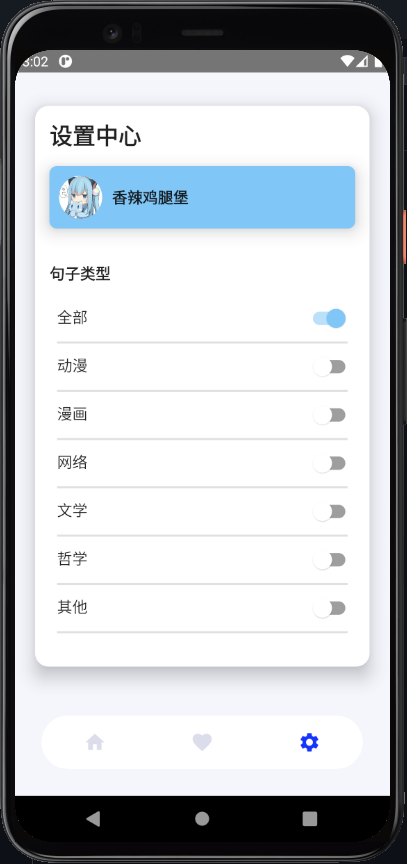
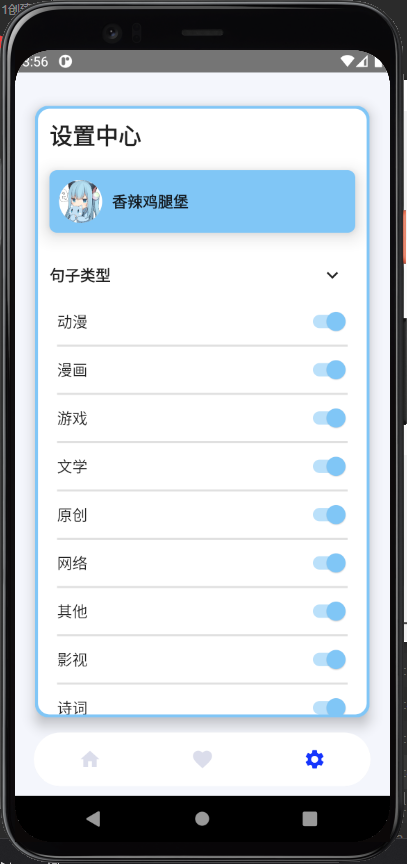
Redesign Ui

diff --git a/app/src/main/java/com/compose/onetextbuilder/Setting.kt b/app/src/main/java/com/compose/onetextbuilder/Setting.kt
@@ -46,14 +46,14 @@ import androidx.compose.foundation.selection.selectable
 import androidx.compose.material.BottomAppBar
 import androidx.compose.material.Icon
 import androidx.compose.material.IconButton
-import androidx.compose.material.icons.filled.Favorite
-import androidx.compose.material.icons.filled.Home
-import androidx.compose.material.icons.filled.Menu
-import androidx.compose.material.icons.filled.Settings
+import androidx.compose.material.icons.filled.*
+import androidx.compose.ui.Alignment.Companion.CenterVertically
+import androidx.compose.ui.graphics.graphicsLayer
 import androidx.compose.ui.res.painterResource
 import androidx.navigation.NavHostController
 
 
+@ExperimentalAnimationApi
 @Composable
 fun Setting(viewModel:UiState, navController: NavHostController) {
     Column(
@@ -67,9 +67,10 @@ fun Setting(viewModel:UiState, navController: NavHostController) {
             shape = RoundedCornerShape(14.dp),
             modifier = Modifier
                 .width(350.dp)
-                .wrapContentHeight(),
+                .height(640.dp),
             color = Color.White,
-            elevation = 14.dp
+            elevation = 10.dp,
+            border = BorderStroke(3.dp, Color(0xFF80C6F6))
         ){
             LazyColumn() {
                 item{
@@ -77,8 +78,11 @@ fun Setting(viewModel:UiState, navController: NavHostController) {
                         modifier = Modifier.padding(15.dp)
                     ) {
                         UserInfo()
-                        CardSpacer()
-                        TextCategory()
+                        CardItemSpacer()
+                        TextCategory(viewModel)
+                        UserInfo()
+                        UserInfo()
+                        UserInfo()
                     }
                 }
             }
@@ -87,9 +91,8 @@ fun Setting(viewModel:UiState, navController: NavHostController) {
 }
 
 @Composable
-fun CardSpacer() {
-  //  Divider(thickness = 2.dp, modifier = Modifier.padding(top = 18.dp, bottom = 18.dp))
-    Spacer(modifier = Modifier.padding(vertical = 18.dp))
+fun CardItemSpacer() {
+    Spacer(modifier = Modifier.padding(vertical = 10.dp))
 }
 
 @Composable
@@ -98,7 +101,7 @@ fun UserInfo(){
         Text(text = "设置中心",
             fontWeight = FontWeight.W900,
             style = MaterialTheme.typography.h5)
-        Spacer(Modifier.padding(vertical = 8.dp))
+        CardItemSpacer()
         Surface(
             modifier = Modifier
                 .fillMaxWidth(),
@@ -132,47 +135,84 @@ fun TextListSpacer() {
     Divider(thickness = 2.dp, modifier = Modifier.padding(top = 12.dp, bottom = 12.dp))
 }
 
+@ExperimentalAnimationApi
 @Composable
-fun TextCategory() {
-    Column() {
-        Text(text = "句子类型",
-            fontWeight = FontWeight.W900,
-            style = MaterialTheme.typography.body1)
-        Spacer(Modifier.padding(vertical = 8.dp))
-        Column(
-            modifier = Modifier.padding(8.dp)
-        ) {
-            CategoryList()
+fun TextCategory(viewModel: UiState) {
+
+    Column{
+        Row(
+            modifier = Modifier
+                .fillMaxWidth()
+                .wrapContentHeight(),
+            verticalAlignment = Alignment.CenterVertically
+        ){
+            Text(text = "句子类型",
+                fontWeight = FontWeight.W900,
+                style = MaterialTheme.typography.body1)
+            Column(
+                modifier = Modifier.fillMaxWidth()
+            ) {
+                IconButton(onClick = {
+                    viewModel.textListSwitch = !viewModel.textListSwitch
+                },
+                    modifier = Modifier.align(Alignment.End)) {
+                    Icon(painterResource(id = R.drawable.expand_more_black_24dp), null)
+                }
+            }
         }
+        Spacer(Modifier.padding(vertical = 2.dp))
+        CategoryList(viewModel)
     }
 }
 
 @Composable
-fun CategoryList(){
-    val textType = listOf(
-        "全部",
-        "动漫",
-        "漫画",
-        "网络",
-        "文学",
-        "哲学",
-        "其他")
+fun CategoryList(viewModel: UiState){
+    val normalModifier = 0.dp
+    val expandModifier = 700.dp
 
-    textType.forEach{
-        Row {
-            val checkedState = remember { mutableStateOf(true) }
-            Text(it)
-            Column(
-                modifier = Modifier.fillMaxWidth()
-            ) {
-                Switch(
-                    checked = checkedState.value,
-                    onCheckedChange = { checkedState.value = it },
-                    colors = SwitchDefaults.colors(checkedThumbColor = Color(0xFF80C6F6)),
-                    modifier = Modifier.align(Alignment.End)
-                )
+    val animatedHeight by animateDpAsState(
+        targetValue = (if(viewModel.textListSwitch) expandModifier else normalModifier),
+        animationSpec = tween(500)
+    )
+
+    Column(
+        modifier = Modifier
+            .padding(8.dp)
+
+    ) {
+        val textType = listOf(
+            "动漫",
+            "漫画",
+            "游戏",
+            "文学",
+            "原创",
+            "网络",
+            "其他",
+            "影视",
+            "诗词",
+            "网易云",
+            "哲学",
+            "抖机灵")
+
+        textType.forEach{
+            Row(
+                modifier = Modifier.wrapContentHeight(),
+                verticalAlignment = CenterVertically
+            ){
+                val checkedState = remember { mutableStateOf(true) }
+                Text(it)
+                Column(
+                    modifier = Modifier.fillMaxWidth()
+                ) {
+                    Switch(
+                        checked = checkedState.value,
+                        onCheckedChange = { checkedState.value = it },
+                        colors = SwitchDefaults.colors(checkedThumbColor = Color(0xFF80C6F6)),
+                        modifier = Modifier.align(Alignment.End)
+                    )
+                }
             }
+            TextListSpacer()
         }
-        TextListSpacer()
     }
 }

diff --git a/app/src/main/java/com/compose/onetextbuilder/MainActivity.kt b/app/src/main/java/com/compose/onetextbuilder/MainActivity.kt
@@ -107,10 +107,11 @@ fun BottomNavigation(viewModel: UiState, navController: NavHostController) {
     Surface(
         shape = CircleShape,
         modifier = Modifier
-            .padding(28.dp)
+            .padding(start = 20.dp, end = 20.dp, bottom = 10.dp)
     ){
         BottomNavigation(
-            elevation = 10.dp
+            elevation = 10.dp,
+            backgroundColor = Color.White
         ) {
             items.forEachIndexed { index, item ->
                 BottomNavigationItem(

diff --git a/app/src/main/java/com/compose/onetextbuilder/ui/theme/Theme.kt b/app/src/main/java/com/compose/onetextbuilder/ui/theme/Theme.kt
@@ -14,7 +14,7 @@ private val DarkColorPalette = darkColors(
 )
 
 private val LightColorPalette = lightColors(
-    primary = Color.White,
+    primary = Color(0xFF80C6F6),
     primaryVariant = Purple700,
     secondary = Teal200,
     background = Color.White,

diff --git a/app/src/main/java/com/compose/onetextbuilder/UiState.kt b/app/src/main/java/com/compose/onetextbuilder/UiState.kt
@@ -16,5 +16,5 @@ class UiState: ViewModel() {
 
     var currentPage by mutableStateOf("hitokoto")
 
-
+    var textListSwitch by mutableStateOf(false)
 }
